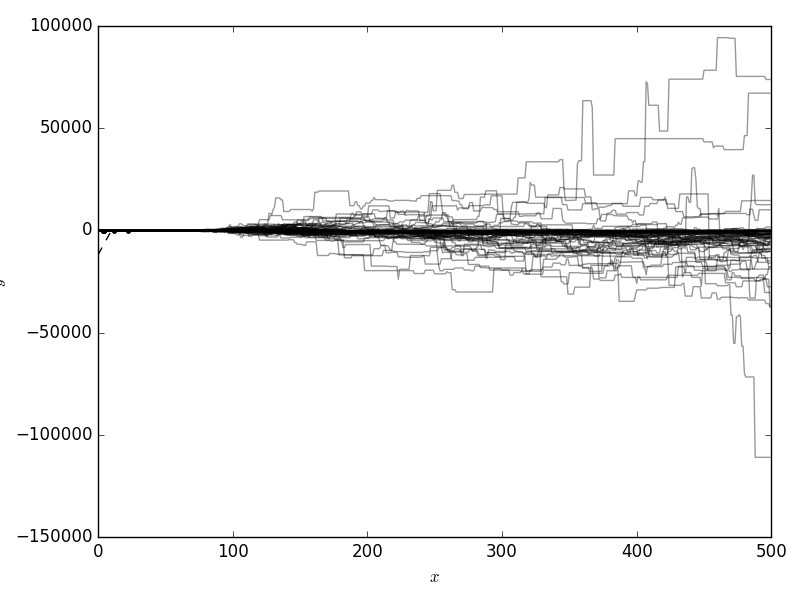
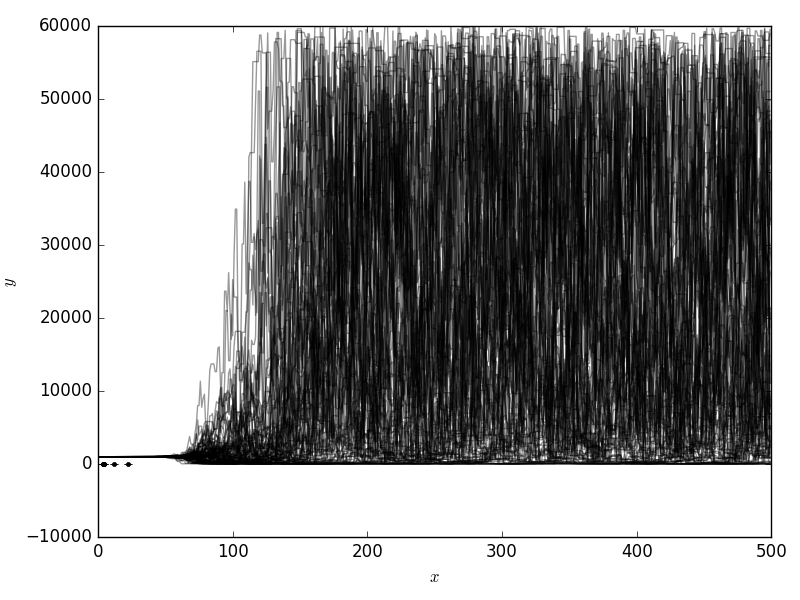
3/15/2017

diff --git a/line0000000.py b/line0000000.py
@@ -28,9 +28,8 @@ k_b = 1.38064852*(10**(-23))  #m^2*kg*s^-2*K^-1
 
 a = 2*h*(c**2)
 b = (h*c)/k_b
-
 # Plot the dataset and the true model.
-xl = np.array([.0001, 10])
+xl = np.array([1, 25])
 pl.errorbar(x, y, yerr=yerr, fmt=".k")
 #pl.plot(xl, m_true*xl+b_true, "k", lw=3, alpha=0.6)
 #pl.ylim(-9, 9)
@@ -42,33 +41,34 @@ pl.savefig("line-data.png")
 # Do the least-squares fit and compute the uncertainties.
 # X = [A^T C^-1 A]^-1[A^T C^-1 Y]
 #Covariance => [A^T C^-1 A]^-1
+
 A = np.vstack((np.ones_like(x), x)).T
 C = np.diag(yerr * yerr) #covariance
 cov = np.linalg.inv(np.dot(A.T, np.linalg.solve(C, A)))
-T_ls = np.dot(cov, np.dot(A.T, np.linalg.solve(C, y.reshape(-1,1))))
-print(A,"this is A")
-print(C,"this is C")
-print(cov,"this is cov")
-print(T_ls)
-
+T_ls, f_ls = np.dot(cov, np.dot(A.T, np.linalg.solve(C, y)))
 
 print("""#Least-squares results:
     #T = {0} ± {1} (truth: {2})
-""".format(T_ls[1], np.sqrt(cov[1, 1]), "IDONNOEITHER"))
+""".format(T_ls, np.sqrt(cov[1, 1]), "IDONNOEITHER"))
+
 # Plot the least-squares result.
-pl.plot(xl, (a/xl**5)*(1/((np.exp(b/(xl*T_ls[1]))-1))), "--k")
+#print(np.log10((a/xl**5)*(1/((np.exp(b/(xl*T_ls))-1)))),xl,"this is it")
+
+pl.plot(xl, np.log10((a/xl**5)*(1/((np.exp(b/(xl*T_ls))-1)))), "--k")
+pl.tight_layout()
 pl.savefig("line-least-squares.png")
 
 # Define the probability function as likelihood * prior.
 def lnprior(theta):
-    T = theta
+    T, lnf = theta
     if 0.0 < T < 60000.0:
         return 0.0
     return -np.inf
 
 def lnlike(theta, x, y, yerr):
-    T = theta
-    model = (a/x**5)*(1/((np.exp(b/(x*T))-1)))
+    T, lnf = theta
+    #print(a,b,x,"here it is")
+    model = np.log10((a/x**5)*(1/((np.exp(b/(x*T))-1))))
     inv_sigma2 = 1.0/(yerr**2 + model**2*np.exp(2*lnf))
     return -0.5*(np.sum((y-model)**2*inv_sigma2 - np.log(inv_sigma2)))
 
@@ -80,19 +80,19 @@ def lnprob(theta, x, y, yerr):
 
 # Find the maximum likelihood value.
 chi2 = lambda *args: -2 * lnlike(*args)
-result = op.minimize(chi2, [0,0,0], args=(x, y, yerr))
+result = op.minimize(chi2, [1000,1], args=(x, y, yerr))
 T_ml = result["x"]
 print("""#Maximum likelihood result:
     #T = {0} (truth: {1})
 """.format(T_ml, "IDONNO"))
 
 # Plot the maximum likelihood result.
-pl.plot(xl, (a/xl**5)*(1/((np.exp(b/(xl*T_ml))-1))), "k", lw=2)
+pl.plot(xl, np.log10((a/xl**5)*(1/((np.exp(b/(xl*T_ml))-1)))), "k", lw=2)
 pl.savefig("line-max-likelihood.png")
 
 
 # Set up the sampler.
-ndim, nwalkers = 3, 100
+ndim, nwalkers = 2, 100
 pos = [result["x"] + 1e-4*np.random.randn(ndim) for i in range(nwalkers)]
 sampler = emcee.EnsembleSampler(nwalkers, ndim, lnprob, args=(x, y, yerr))
 # Clear and run the production chain.
@@ -116,7 +116,7 @@ fig.savefig("line-triangle.png")
 # Plot some samples onto the data.
 pl.figure()
 for T_ls in samples[np.random.randint(len(samples), size=100)]:
-    pl.plot(xl, (a/xl**5)*(1/((np.exp(b/(xl*T_ls))-1))), color="k", alpha=0.1)
+    pl.plot(xl, np.log10((a/xl**5)*(1/((np.exp(b/(xl*T_ls))-1)))), color="k", alpha=0.1)
 #pl.plot(xl, m_true*xl+b_true, color="r", lw=2, alpha=0.8)
 pl.errorbar(x, y, yerr=yerr, fmt=".k")
 pl.xlabel("$x$")
@@ -128,7 +128,7 @@ samples[:] = np.exp(samples[:])
 T_mcmc = list(map(lambda v: (v[1], v[2]-v[1], v[1]-v[0]),
                              zip(*np.percentile(samples, [16, 50, 84],
                                                 axis=0))))
-print(T_mcmc)
+
 print("""MCMC result:
     T = {0[0][0]} +{0[0][1]} -{0[0][2]}
 """.format(T_mcmc))

diff --git a/line00000.py b/line00000.py
@@ -61,6 +61,7 @@ pl.savefig("line-least-squares.png")
 
 # Define the probability function as likelihood * prior.
 def lnprior(theta):
+    print(theta,"SADASD")
     a, T, lnf = theta
     if 0.0 < T < 60000.0 and -10.0 < lnf < 1.0:
         return 0.0
@@ -131,5 +132,5 @@ T_mcmc = list(map(lambda v: (v[1], v[2]-v[1], v[1]-v[0]),
                                                 axis=0))))
 print(T_mcmc)
 print("""MCMC result:
-    T = {0[0][0]} +{0[0][1]} -{0[0][2]}
+    T = {0[0]} +{0[1]} -{0[2]}
 """.format(T_mcmc))

diff --git a/line.py b/line.py
@@ -62,7 +62,7 @@ print("""Least-squares results:
 """.format(m_ls, np.sqrt(cov[1, 1]), m_true, b_ls, np.sqrt(cov[0, 0]), b_true))
 
 # Plot the least-squares result.
-print(m_ls*xl+b_ls,"this is it")
+print(m_ls*xl+b_ls,xl,"this is it")
 pl.plot(xl, m_ls*xl+b_ls, "--k")
 pl.savefig("line-least-squares.png")
 
